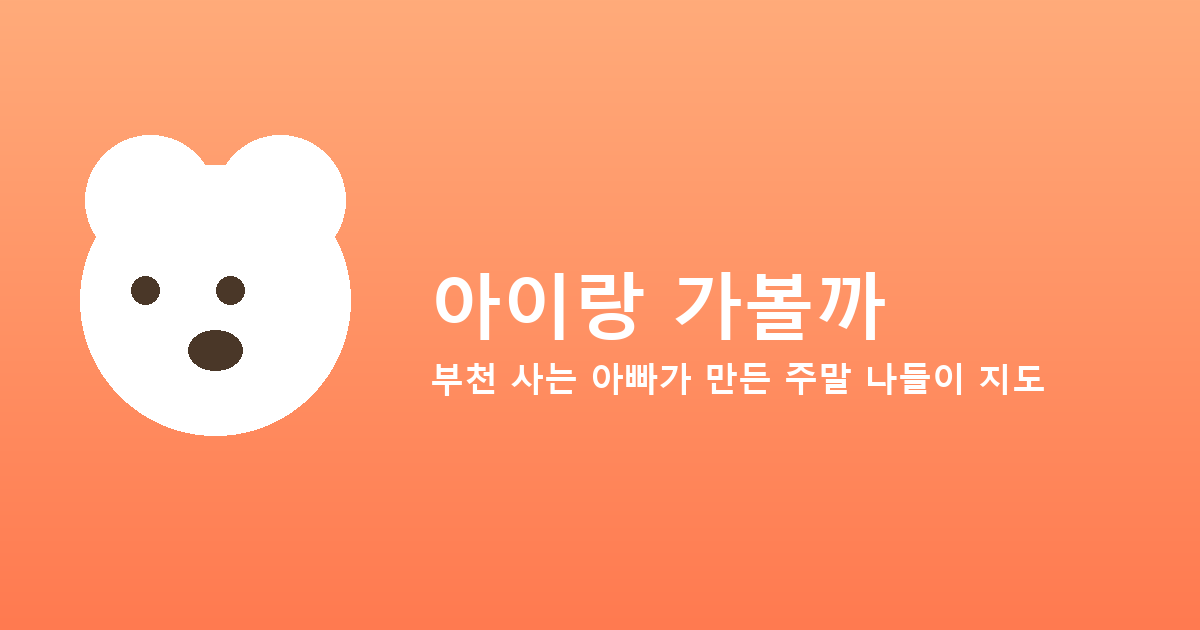
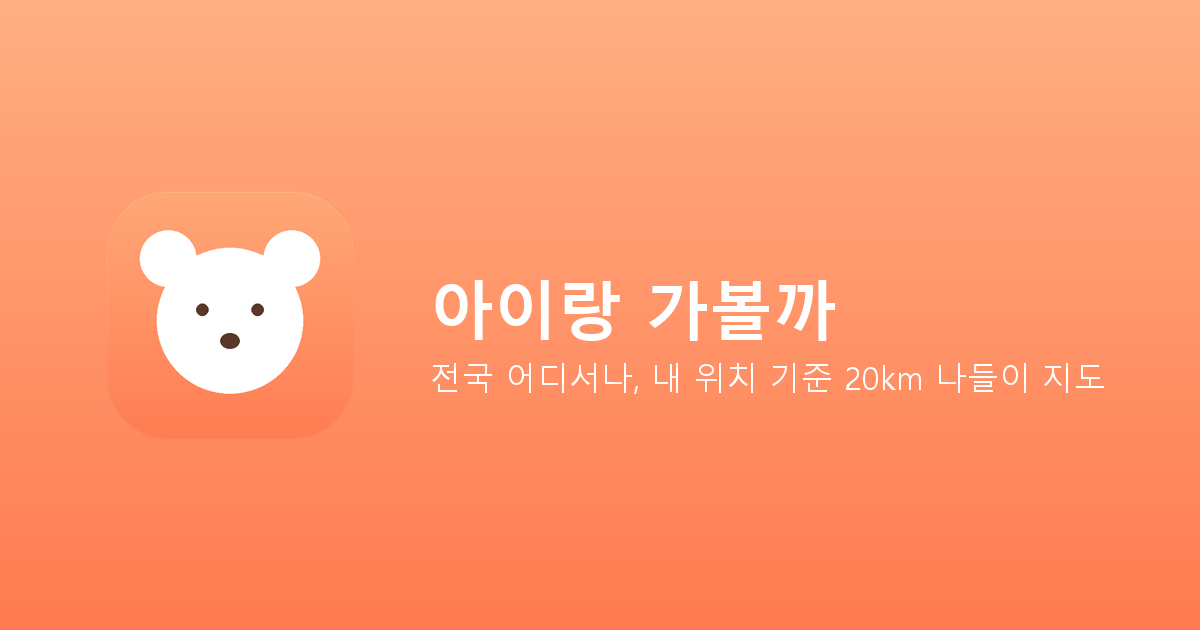
전국 확대 후에도 남아있던 "부천 근교 20km" 문구 정리
화면에 보이는 태그라인은 GPS 마이그레이션 때 이미 고쳤었는데, title/meta
description/og:description(카카오톡·SNS 공유 미리보기용)과 og-image.png에
박힌 텍스트는 놓쳤었다 - 사용자가 이력서에 개인 프로젝트로 올리려는데
지역 한정 문구가 안 맞는다고 알려줘서 발견함.

- index.html: "부천·인천 근교 20km" -> "내 위치 기준 20km"로, 태그라인도
  "전국 어디서나, 내 위치 기준 20km 나들이 지도"로
- hospital.html: 같은 방식으로 정리
- icons/og-image.png: "부천 사는 아빠가 만든 주말 나들이 지도" 문구가 이미지
  안에 박혀있던 걸 새 문구로 다시 렌더링(generate_og_image.py 새로 작성 -
  예전엔 이 스크립트가 저장 안 돼있어서 재실행이 불가능했다)

settings.py에는 어제(2026-08-28) 카테고리 전면 재검토에서 추가한 국립/도립/
군립공원, 동굴, 폭포, 승마/카트/스케이트/카약카누, 빠져있던 시(市) 15곳도
같이 커밋함 - 실제 데이터 반영은 TourAPI 쿼터가 오늘 이미 소진돼서 다음
파이프라인 실행(내일 자동 실행 또는 쿼터 회복 후 수동 실행) 때 이뤄질 예정.

Changed region(s): [[0.0617, 0.2111, 0.3083, 0.6937], [0.37, 0.4222, 0.74, 0.5429], [0.3392, 0.573, 0.925, 0.6333]]

diff --git a/index.html b/index.html
@@ -3,8 +3,8 @@
 <head>
 <meta charset="UTF-8">
 <meta name="viewport" content="width=device-width, initial-scale=1.0">
-<title>아이랑 가볼까 - 부천·인천 아이와 갈만한 곳, 주말 나들이 정보</title>
-<meta name="description" content="부천 사는 아빠가 만든 주말 나들이 지도 - 부천·인천 근교 20km, 오늘부터 이번 주말까지 아이와 갈만한 공연·전시·나들이·체험·물놀이 정보">
+<title>아이랑 가볼까 - 내 주변 20km, 아이와 갈만한 곳 나들이 정보</title>
+<meta name="description" content="아빠가 만든 나들이 지도 - 전국 어디서나 내 위치 기준 20km, 오늘부터 이번 주말까지 아이와 갈만한 공연·전시·나들이·체험·물놀이 정보">
 <meta name="naver-site-verification" content="de7dc588a61ea54a070dad24ad125b83ad93414c" />
 <link rel="manifest" href="manifest.json">
 <meta name="theme-color" content="#ff7a50">
@@ -19,7 +19,7 @@
      결정됨) 앱 전체 기준의 고정 카드만 가능하다. -->
 <meta property="og:type" content="website">
 <meta property="og:title" content="아이랑 가볼까">
-<meta property="og:description" content="부천 사는 아빠가 만든 주말 나들이 지도 - 부천 근교 20km, 오늘부터 이번 주말까지">
+<meta property="og:description" content="아빠가 만든 나들이 지도 - 전국 어디서나 내 위치 기준 20km, 오늘부터 이번 주말까지">
 <meta property="og:image" content="https://bucheonkids.com/icons/og-image.png">
 <meta property="og:url" content="https://bucheonkids.com/">
 <meta name="twitter:card" content="summary_large_image">
@@ -282,7 +282,7 @@
 <body>
 <div class="topbar" id="topbar">
   <div class="topbar-header">
-    <div class="brand"><span class="logo">🧸</span><h1>아이랑 가볼까</h1><span class="tagline">부천 사는 아빠가 만든 주말 나들이 지도</span></div>
+    <div class="brand"><span class="logo">🧸</span><h1>아이랑 가볼까</h1><span class="tagline">전국 어디서나, 내 위치 기준 20km 나들이 지도</span></div>
     <div class="header-actions">
       <a class="contact-link" href="hospital.html">🏥 아이가 아파요</a>
       <button type="button" class="contact-link" id="contactOpenBtn">💬 문의하기</button>

diff --git a/hospital.html b/hospital.html
@@ -3,8 +3,8 @@
 <head>
 <meta charset="UTF-8">
 <meta name="viewport" content="width=device-width, initial-scale=1.0">
-<title>아이랑 병원 - 부천·인천 소아과/응급실 찾기</title>
-<meta name="description" content="아이가 아파요? 부천·인천 근교 지금 열려있는 소아과, 응급실을 바로 찾아보세요">
+<title>아이랑 병원 - 내 주변 소아과/응급실 찾기</title>
+<meta name="description" content="아이가 아파요? 내 위치 기준 20km, 지금 열려있는 소아과·응급실을 바로 찾아보세요">
 <link rel="manifest" href="manifest.json">
 <meta name="theme-color" content="#e0507a">
 <link rel="icon" href="icons/icon-192.png">
@@ -14,7 +14,7 @@
 <link rel="apple-touch-icon" href="icons/apple-touch-icon.png">
 <meta property="og:type" content="website">
 <meta property="og:title" content="아이랑 병원">
-<meta property="og:description" content="아이가 아파요? 부천·인천 근교 지금 열려있는 소아과, 응급실을 바로 찾아보세요">
+<meta property="og:description" content="아이가 아파요? 내 위치 기준 20km, 지금 열려있는 소아과·응급실을 바로 찾아보세요">
 <meta property="og:image" content="https://bucheonkids.com/icons/og-image.png">
 <meta property="og:url" content="https://bucheonkids.com/hospital.html">
 <meta name="twitter:card" content="summary_large_image">

diff --git a/settings.py b/settings.py
@@ -86,6 +86,20 @@ TOUR_CATEGORY_TARGETS = [
     # 2026-08-28 카테고리 코드 전수 대조 중 발견 - 전국 9건뿐이지만 실제 데이터가
     # 있어서(산업관광/이색거리 등 다른 미사용 코드는 확인해보니 전국 0건이었음) 추가
     ("물놀이·찜질방", 12, "A02", "A0202", "A02020400", "이색찜질방", False),
+    # 2026-08-28 A01/A03 카테고리 트리 전체를 마저 훑어서 추가 - 섬/강/약수터/
+    # 등대는 "오늘 갑자기 갈 곳" 컨셉과 안 맞거나(사전 계획/이동 필요) 너무
+    # 광범위해서 뺐고, 국립·도립·군립공원/동굴/폭포처럼 확실한 나들이 스팟만 넣었다.
+    ("나들이·산책", 12, "A01", "A0101", "A01010100", "국립공원", False),
+    ("나들이·산책", 12, "A01", "A0101", "A01010200", "도립공원", False),
+    ("나들이·산책", 12, "A01", "A0101", "A01010300", "군립공원", False),
+    ("나들이·산책", 12, "A01", "A0101", "A01011900", "동굴", False),
+    ("나들이·산책", 12, "A01", "A0101", "A01010800", "폭포", False),
+    # A03(레포츠)는 대부분 성인/극한스포츠(경마/카지노/번지점프/스카이다이빙 등)라
+    # 컨셉과 안 맞고, 아이 동반 체험형인 것만 골랐다.
+    ("체험·놀이", 28, "A03", "A0302", "A03021100", "승마", False),
+    ("체험·놀이", 28, "A03", "A0302", "A03020600", "카트", False),
+    ("체험·놀이", 28, "A03", "A0302", "A03021300", "스케이트", False),
+    ("체험·놀이", 28, "A03", "A0303", "A03030200", "카약카누", False),
 ]
 # 캠핑·글램핑, 스키·눈썰매 카테고리는 뺐다 - "오늘 갑자기 갈 곳"이라는 앱 컨셉과
 # 안 맞는다는 판단. 둘 다 사이트 예약/장비 대여가 미리 필요한, 계획해서 가는
@@ -219,11 +233,17 @@ LOCAL_SEARCH_AREAS = [
     "울산 중구", "울산 남구", "울산 동구", "울산 북구", "울산 울주군",
     # 세종
     "세종",
-    # 강원/충청/전라/경상/제주 - 주요 도시 위주
-    "춘천", "원주", "강릉", "속초",
+    # 강원/충청/전라/경상/제주 - 주요 도시 위주. 2026-08-28에 병원 데이터용
+    # 검증된 전국 시(市) 목록과 대조해서 빠져있던 시들을 마저 추가했다(거제/경산/
+    # 통영처럼 인구도 꽤 있고 관광지로도 알려진 곳들이 원래 빠져있었다) - 군은
+    # 여전히 의도적으로 스코프 밖에 둔다.
+    "춘천", "원주", "강릉", "속초", "동해", "태백", "삼척",
     "청주", "충주", "제천", "천안", "아산", "서산", "당진",
-    "전주", "익산", "군산", "목포", "여수", "순천", "광양",
-    "포항", "경주", "구미", "안동", "창원", "진주", "김해", "양산",
+    "공주", "보령", "논산", "계룡",
+    "전주", "익산", "군산", "정읍", "남원", "김제",
+    "목포", "여수", "순천", "광양", "나주",
+    "포항", "경주", "구미", "안동", "김천", "영주", "영천", "상주", "문경", "경산",
+    "창원", "진주", "김해", "양산", "통영", "사천", "밀양", "거제",
     "제주시", "서귀포",
 ]
 # (카테고리, 키워드) 쌍으로 관리한다 - 카페류는 체험·놀이로, 워터파크류는 물놀이로 붙는다.

diff --git a/build_map.py b/build_map.py
@@ -95,8 +95,8 @@ HTML_TEMPLATE = """<!DOCTYPE html>
 <head>
 <meta charset="UTF-8">
 <meta name="viewport" content="width=device-width, initial-scale=1.0">
-<title>아이랑 가볼까 - 부천·인천 아이와 갈만한 곳, 주말 나들이 정보</title>
-<meta name="description" content="부천 사는 아빠가 만든 주말 나들이 지도 - 부천·인천 근교 20km, 오늘부터 이번 주말까지 아이와 갈만한 공연·전시·나들이·체험·물놀이 정보">
+<title>아이랑 가볼까 - 내 주변 20km, 아이와 갈만한 곳 나들이 정보</title>
+<meta name="description" content="아빠가 만든 나들이 지도 - 전국 어디서나 내 위치 기준 20km, 오늘부터 이번 주말까지 아이와 갈만한 공연·전시·나들이·체험·물놀이 정보">
 <meta name="naver-site-verification" content="de7dc588a61ea54a070dad24ad125b83ad93414c" />
 <link rel="manifest" href="manifest.json">
 <meta name="theme-color" content="#ff7a50">
@@ -111,7 +111,7 @@ HTML_TEMPLATE = """<!DOCTYPE html>
      결정됨) 앱 전체 기준의 고정 카드만 가능하다. -->
 <meta property="og:type" content="website">
 <meta property="og:title" content="아이랑 가볼까">
-<meta property="og:description" content="부천 사는 아빠가 만든 주말 나들이 지도 - 부천 근교 20km, 오늘부터 이번 주말까지">
+<meta property="og:description" content="아빠가 만든 나들이 지도 - 전국 어디서나 내 위치 기준 20km, 오늘부터 이번 주말까지">
 <meta property="og:image" content="https://bucheonkids.com/icons/og-image.png">
 <meta property="og:url" content="https://bucheonkids.com/">
 <meta name="twitter:card" content="summary_large_image">
@@ -317,7 +317,7 @@ HTML_TEMPLATE = """<!DOCTYPE html>
 <body>
 <div class="topbar" id="topbar">
   <div class="topbar-header">
-    <div class="brand"><span class="logo">🧸</span><h1>아이랑 가볼까</h1><span class="tagline">부천 사는 아빠가 만든 주말 나들이 지도</span></div>
+    <div class="brand"><span class="logo">🧸</span><h1>아이랑 가볼까</h1><span class="tagline">전국 어디서나, 내 위치 기준 20km 나들이 지도</span></div>
     <div class="header-actions">
       <a class="contact-link" href="hospital.html">🏥 아이가 아파요</a>
       <button type="button" class="contact-link" id="contactOpenBtn">💬 문의하기</button>

diff --git a/generate_og_image.py b/generate_og_image.py
@@ -1,0 +1,49 @@
+"""icons/og-image.png(카카오톡/소셜 공유 미리보기용, 1200x630)을 만드는 스크립트.
+전국 GPS 기반으로 바뀐 뒤에도 이미지 안에 "부천 사는 아빠가 만든"이라는 예전 문구가
+그대로 박혀있던 걸 뒤늦게 발견해서(2026-08-28, 이력서용으로 쓰려는데 안 맞는다는
+피드백) 다시 만든다. 매번 다시 실행할 일은 거의 없어서 파이프라인에는 안 넣고
+필요할 때 수동으로 돌린다.
+"""
+from PIL import Image, ImageDraw, ImageFont
+
+OUTPUT_PATH = "icons/og-image.png"
+SIZE = (1200, 630)
+FONT_BOLD = "C:/Windows/Fonts/malgunbd.ttf"
+FONT_REGULAR = "C:/Windows/Fonts/malgun.ttf"
+
+
+def build_gradient(size, top_color, bottom_color):
+    w, h = size
+    img = Image.new("RGB", size, top_color)
+    draw = ImageDraw.Draw(img)
+    for y in range(h):
+        t = y / (h - 1)
+        r = round(top_color[0] + (bottom_color[0] - top_color[0]) * t)
+        g = round(top_color[1] + (bottom_color[1] - top_color[1]) * t)
+        b = round(top_color[2] + (bottom_color[2] - top_color[2]) * t)
+        draw.line([(0, y), (w, y)], fill=(r, g, b))
+    return img
+
+
+def main():
+    img = build_gradient(SIZE, (255, 175, 130), (255, 122, 80))
+    draw = ImageDraw.Draw(img)
+
+    bear = Image.open("icons/icon-512.png").convert("RGBA")
+    bear_size = 280
+    bear = bear.resize((bear_size, bear_size), Image.LANCZOS)
+    img.paste(bear, (90, (SIZE[1] - bear_size) // 2), bear)
+
+    title_font = ImageFont.truetype(FONT_BOLD, 64)
+    subtitle_font = ImageFont.truetype(FONT_REGULAR, 32)
+
+    text_x = 430
+    draw.text((text_x, 265), "아이랑 가볼까", font=title_font, fill="white")
+    draw.text((text_x, 355), "전국 어디서나, 내 위치 기준 20km 나들이 지도", font=subtitle_font, fill="white")
+
+    img.save(OUTPUT_PATH)
+    print(f"og-image 재생성 완료 -> {OUTPUT_PATH}")
+
+
+if __name__ == "__main__":
+    main()

diff --git a/build_hospital.py b/build_hospital.py
@@ -13,8 +13,8 @@ HTML_TEMPLATE = """<!DOCTYPE html>
 <head>
 <meta charset="UTF-8">
 <meta name="viewport" content="width=device-width, initial-scale=1.0">
-<title>아이랑 병원 - 부천·인천 소아과/응급실 찾기</title>
-<meta name="description" content="아이가 아파요? 부천·인천 근교 지금 열려있는 소아과, 응급실을 바로 찾아보세요">
+<title>아이랑 병원 - 내 주변 소아과/응급실 찾기</title>
+<meta name="description" content="아이가 아파요? 내 위치 기준 20km, 지금 열려있는 소아과·응급실을 바로 찾아보세요">
 <link rel="manifest" href="manifest.json">
 <meta name="theme-color" content="#e0507a">
 <link rel="icon" href="icons/icon-192.png">
@@ -24,7 +24,7 @@ HTML_TEMPLATE = """<!DOCTYPE html>
 <link rel="apple-touch-icon" href="icons/apple-touch-icon.png">
 <meta property="og:type" content="website">
 <meta property="og:title" content="아이랑 병원">
-<meta property="og:description" content="아이가 아파요? 부천·인천 근교 지금 열려있는 소아과, 응급실을 바로 찾아보세요">
+<meta property="og:description" content="아이가 아파요? 내 위치 기준 20km, 지금 열려있는 소아과·응급실을 바로 찾아보세요">
 <meta property="og:image" content="https://bucheonkids.com/icons/og-image.png">
 <meta property="og:url" content="https://bucheonkids.com/hospital.html">
 <meta name="twitter:card" content="summary_large_image">
